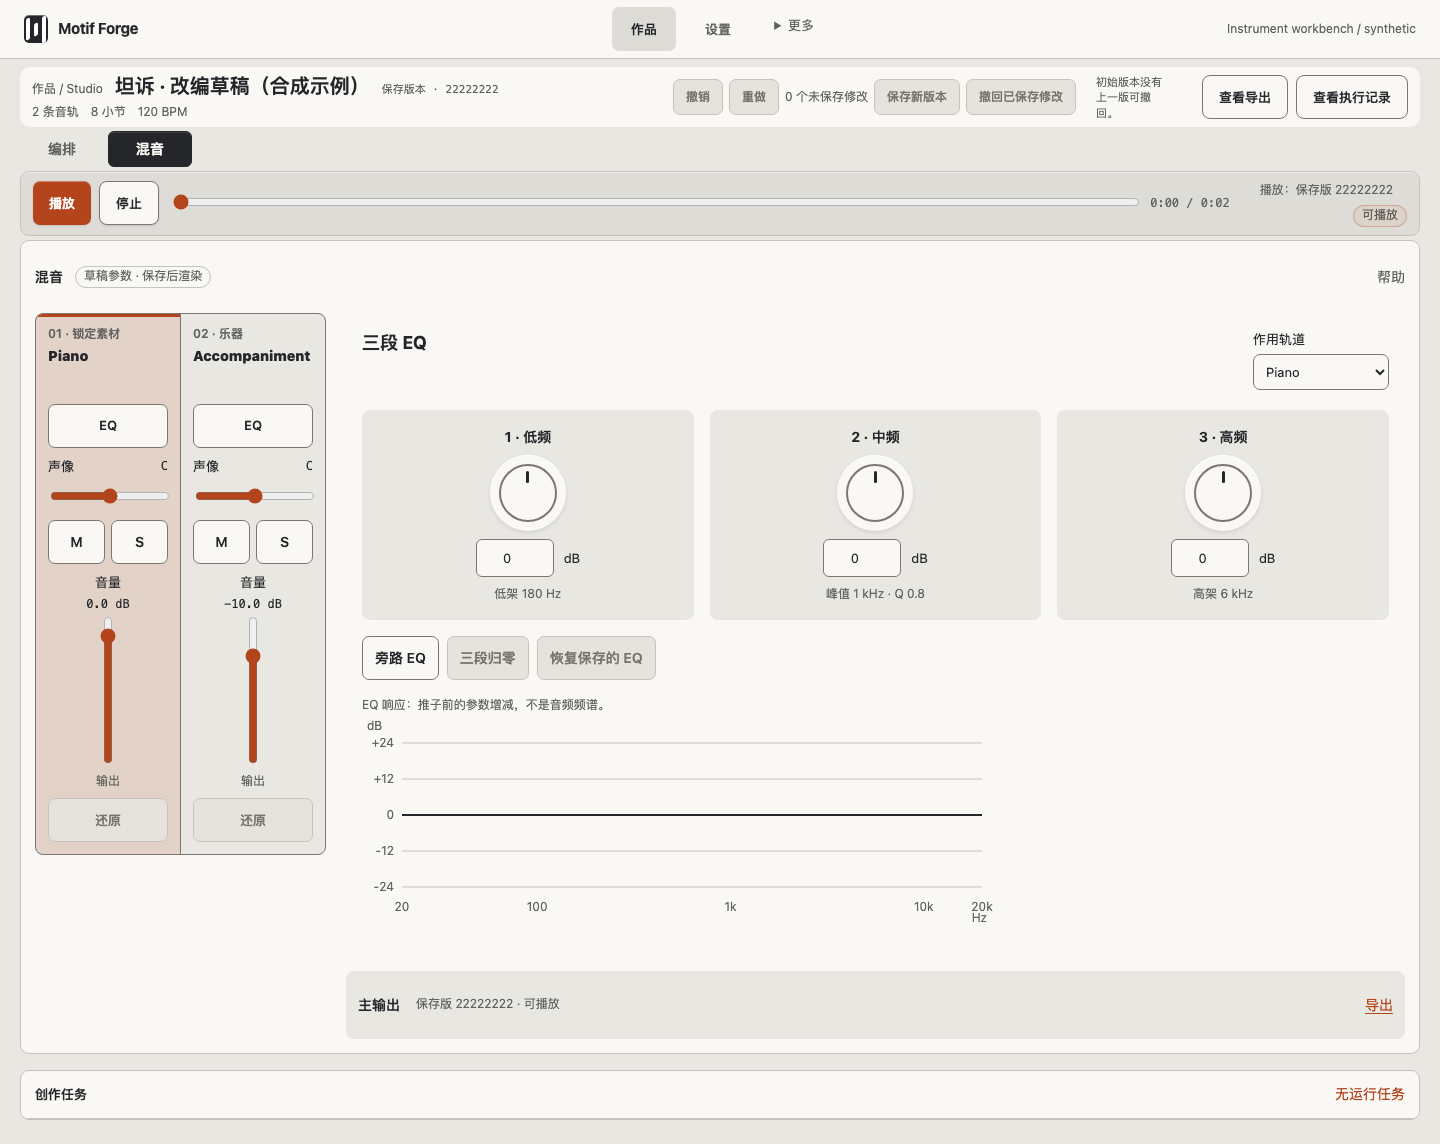
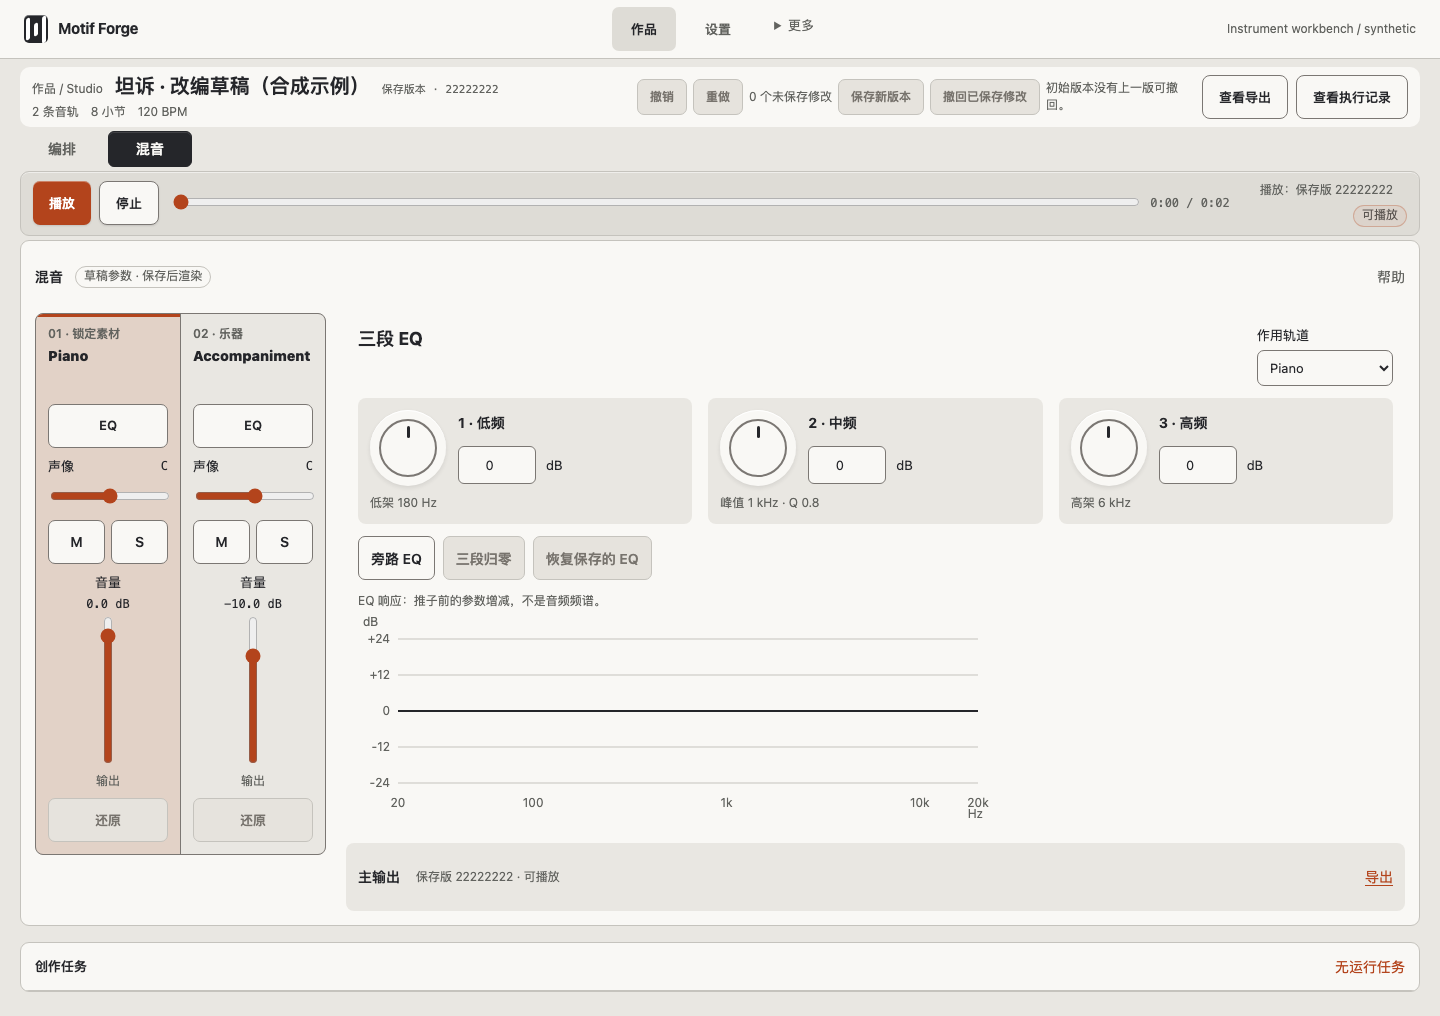
style(web): tighten Studio controls and refresh visual evidence

diff --git a/apps/web/src/workbench.css b/apps/web/src/workbench.css
@@ -91,7 +91,7 @@ input[type=range]{accent-color:var(--accent)}
 .studio-meta{grid-row:2;gap:12px;justify-content:flex-start}.studio-meta span{border:0;padding:0;font-size:12px}
 .studio-workbar-actions{grid-column:2;grid-row:1;display:flex;gap:8px}.studio-workbar-actions a{min-height:44px}
 .studio-workbar>.studio-toolbar{grid-column:2;grid-row:2;padding:0;border:0;margin:0;gap:6px;justify-content:flex-end}
-.studio-toolbar button{min-height:36px}.studio-toolbar .saved-audio-note{max-width:160px;line-height:1.4}.studio-toolbar>span{font-size:12px}
+.studio-toolbar button{min-height:36px}.studio-toolbar .saved-audio-note{max-width:160px;margin:0;padding:0;line-height:1.4}.studio-toolbar>span{font-size:12px;overflow-wrap:anywhere}
 .workspace-views{padding:0;border:0;gap:4px;align-items:center}.workspace-views button{min-height:40px;padding:6px 18px;border-radius:6px;color:var(--muted)}
 .workspace-views button[aria-pressed=true]{background:var(--text);color:var(--surface);border-color:var(--text);box-shadow:inset 0 1px #ffffff22}
 .studio-page>[aria-labelledby=transport-title]{display:flex;align-items:center;gap:12px;flex-wrap:wrap;padding:8px 12px;background:var(--subtle);border:1px solid var(--line);border-radius:9px;box-shadow:inset 0 1px #ffffff80}
@@ -121,9 +121,9 @@ input[type=range]{accent-color:var(--accent)}
 .channel-identity{min-height:70px;align-content:start}.channel-identity strong{font-size:14px;line-height:1.4;overflow-wrap:normal;word-break:normal;min-height:40px}.channel-identity span{font-size:12px}.channel-identity[aria-pressed=true]{color:var(--text)}
 .channel-eq,.channel-restore{min-height:44px;font-size:13px}.channel-switches button{min-height:44px}.channel-switches button[aria-pressed=true]{background:var(--text);border-color:var(--text)}
 .mixer-panel .channel-pan{font-size:13px}.channel-pan input{min-height:28px}.mixer-panel .channel-fader{font-size:13px}.channel-fader input[type=range]{height:148px!important;width:44px!important}.channel-state{font-size:12px}
-.mix-detail{gap:16px}.mix-detail .piano-eq-panel{padding:16px;background:var(--surface);border:0}.piano-eq-panel h3{font-size:18px}
-.eq-control-grid{gap:16px}.eq-band{background:var(--canvas);border:0;border-radius:8px;padding:16px}.eq-dial{background:var(--surface);border-color:var(--line-strong);box-shadow:inset 0 1px #fff,0 2px 4px #25262a1a}
-.eq-band small{font-size:12px}.eq-response{margin:16px 0}.eq-response figcaption{font-size:12px}.eq-response svg{height:auto;max-height:160px;min-width:300px}
+.mix-detail{gap:12px}.mix-detail .piano-eq-panel{padding:12px;background:var(--surface);border:0}.piano-eq-panel h3{font-size:18px}
+.eq-control-grid{gap:16px;margin:12px 0}.eq-band{background:var(--canvas);border:0;border-radius:8px;padding:12px}.eq-dial{background:var(--surface);border-color:var(--line-strong);box-shadow:inset 0 1px #fff,0 2px 4px #25262a1a}
+.eq-band small{font-size:12px}.eq-response{margin:12px 0 0}.eq-response figcaption{font-size:12px}.eq-response svg{height:auto;max-height:160px;min-width:300px}
 .eq-response-line{stroke:var(--text)}.eq-response-ghost{stroke:var(--accent)}
 .master-output{padding:12px;background:var(--canvas);border:0;border-radius:8px}.master-output a{min-height:44px;display:flex;align-items:center}.master-output span{font-size:12px}
 .run-page{max-width:1120px}.run-progress{border:0;border-radius:10px;padding:20px;background:var(--surface)}.run-progress h1{font-size:28px}
@@ -153,7 +153,7 @@ input[type=range]{accent-color:var(--accent)}
 .studio-playbar>.secondary-inline{grid-column:1/-1}
 .run-execution-details>summary{min-height:44px;display:flex;align-items:center;cursor:pointer;color:var(--muted)}
 .mix-help>summary{min-height:44px;display:flex;align-items:center;cursor:pointer}
-@media(min-width:1100px){.studio-page{gap:4px}.studio-workbar{padding:8px 12px;gap:4px 16px}.studio-workbar-identity h1{font-size:20px}.workspace-views button{min-height:36px}.studio-workbar .workspace-back{font-size:12px}.studio-workbar>.studio-toolbar{flex-wrap:nowrap}.studio-toolbar .saved-audio-note{max-width:104px;font-size:11px}}
+@media(min-width:1100px){.studio-page{gap:4px}.studio-workbar{padding:8px 12px;gap:4px 16px}.studio-workbar-identity h1{font-size:20px}.workspace-views button{min-height:36px}.studio-workbar .workspace-back{font-size:12px}.studio-workbar>.studio-toolbar{flex-wrap:nowrap}.studio-toolbar .saved-audio-note{max-width:140px;font-size:12px}}
 @media(max-width:768px){.app-shell>main:has(.studio-page){padding:12px}.studio-page>[aria-labelledby=transport-title].studio-playbar{grid-template-columns:minmax(0,1fr)}.studio-playbar>.playbar-source{grid-column:1;grid-row:2;justify-items:start;display:flex;align-items:center;max-width:none}.studio-playbar>.studio-transport{grid-row:1}}
 .studio-page>.studio-playbar[aria-labelledby=transport-title]>.studio-transport{grid-column:1;grid-row:1;min-width:0;width:auto}
 .mix-detail{grid-template-columns:minmax(0,1fr)}
@@ -169,3 +169,25 @@ input[type=range]{accent-color:var(--accent)}
 /* Keep the submitted draft stable; pending configuration alone still permits editing. */
 .brief-fields{min-width:0;margin:0;padding:0;border:0;display:grid;gap:16px;}
 @media(max-width:768px){.channel-strip .channel-pan input,.piano-eq-panel select,.piano-eq-panel input[type=number]{min-height:44px;}}
+
+@media(min-width:1100px){
+  .eq-band{display:grid;grid-template-columns:auto minmax(0,1fr);align-items:center;justify-items:start;text-align:left;gap:8px 12px}
+  .eq-band>.eq-dial{grid-column:1;grid-row:1/3}
+  .eq-band>strong,.eq-band>.eq-number{grid-column:2}
+  .eq-band>small,.eq-band>.field-error{grid-column:1/-1}
+}
+@media(max-width:768px){
+  .studio-workbar>.studio-toolbar{display:grid;grid-template-columns:auto auto minmax(0,1fr) auto;align-items:center}
+  .studio-toolbar>button{grid-row:1;padding-inline:10px;white-space:nowrap}
+  .studio-toolbar>button:nth-of-type(3){grid-column:3}
+  .studio-toolbar>button:nth-of-type(4){grid-column:4}
+  .studio-toolbar>[role=status]{grid-column:1/3;grid-row:2;width:auto;margin:0}
+  .studio-toolbar>.saved-audio-note{grid-column:3/-1;grid-row:2;max-width:none}
+  .studio-toolbar>.field-error{grid-column:1/-1}
+}
+@media(max-width:374px){
+  .studio-workbar>.studio-toolbar{grid-template-columns:repeat(2,minmax(0,1fr))}
+  .studio-toolbar>button{grid-row:auto}
+  .studio-toolbar>button:nth-of-type(3),.studio-toolbar>button:nth-of-type(4){grid-column:auto}
+  .studio-toolbar>[role=status],.studio-toolbar>.saved-audio-note{grid-column:1/-1;grid-row:auto}
+}
